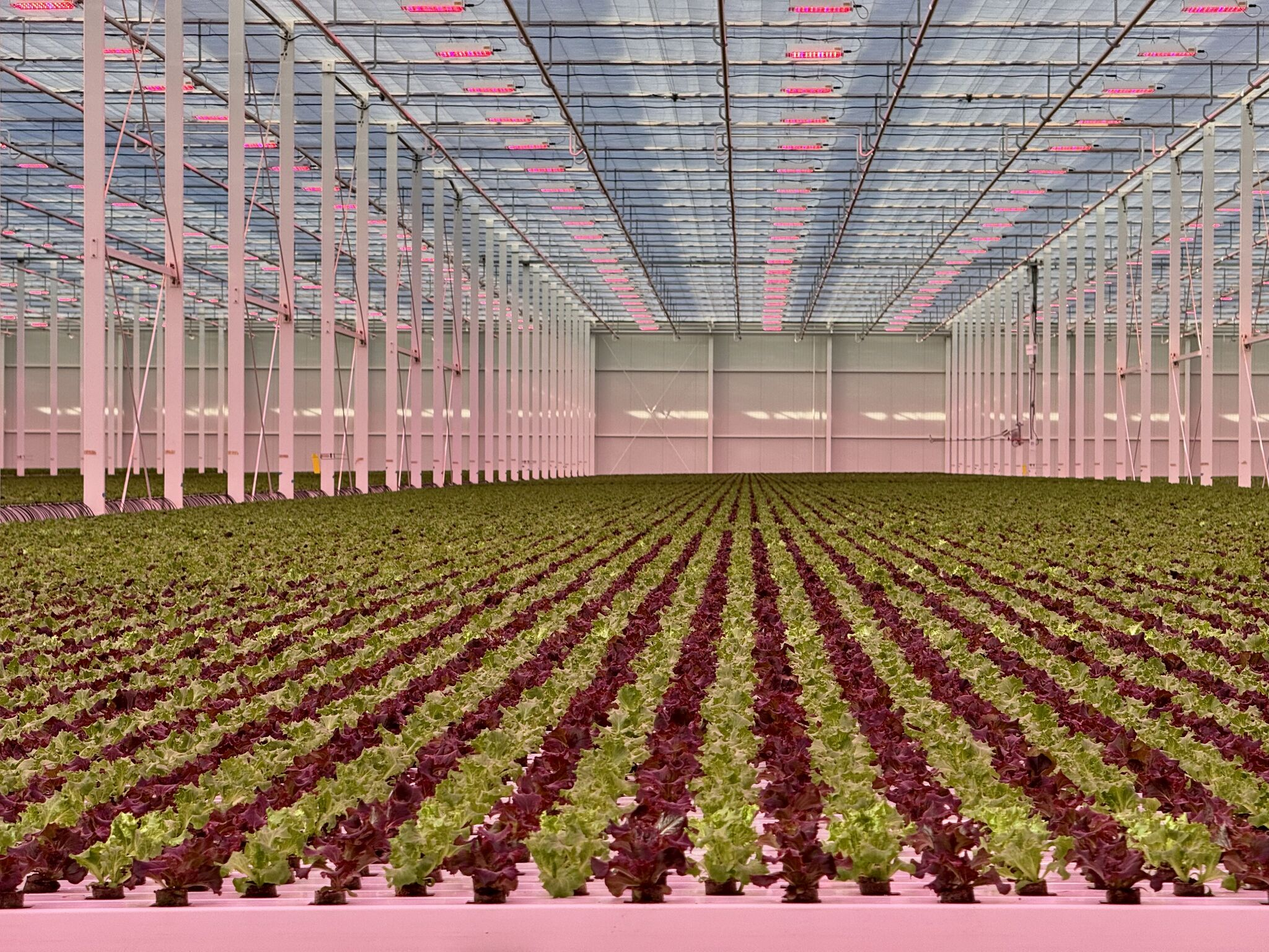
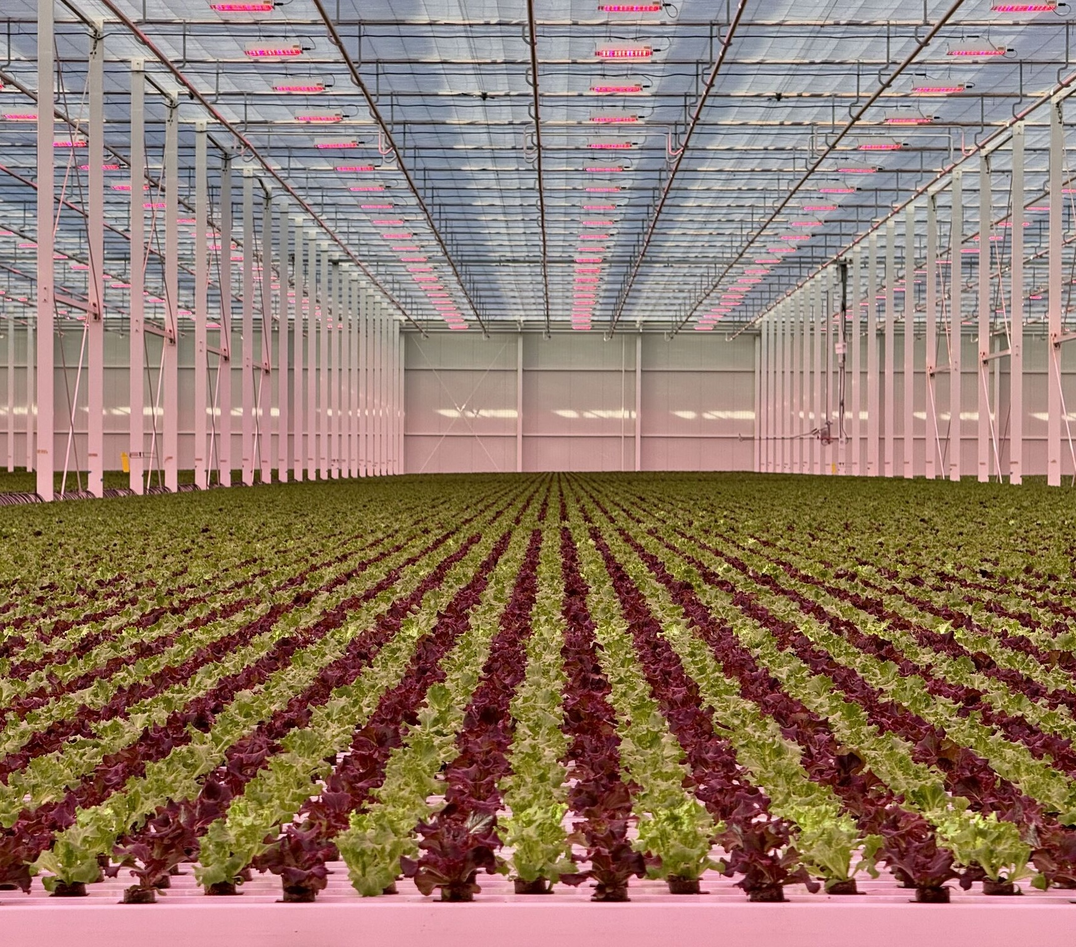
更新hero溫室照(新裁切版)置中、LINE改可點按鈕、移除單一QR區

diff --git a/index.html b/index.html
@@ -52,7 +52,7 @@
     padding:0 0 11vh;overflow:hidden;
   }
   .hero__bg{position:absolute;inset:0;z-index:0}
-  .hero__bg img{width:100%;height:100%;object-fit:cover;object-position:42% center;
+  .hero__bg img{width:100%;height:100%;object-fit:cover;object-position:center;
     opacity:.96;filter:brightness(1.12) saturate(.95)}
   .hero__bg::after{
     content:"";position:absolute;inset:0;
@@ -421,6 +421,8 @@
     </div>
 
     <div class="socials">
+      <a class="sbtn reveal" href="https://line.me/ti/p/ZOqlzwtyOY" target="_blank" rel="noopener">
+        <svg viewBox="0 0 24 24" fill="none" stroke="var(--gold-light)" stroke-width="1.7" stroke-linejoin="round"><path d="M21 11.4c0-4.2-4-7.6-9-7.6S3 7.2 3 11.4c0 3.8 3.2 7 7.5 7.6.3.1.7.2.8.5.1.2.1.6 0 .8l-.1.8c0 .2-.2 1 .9.6 1.1-.5 5.8-3.4 7.9-5.9h0A7.3 7.3 0 0 0 21 11.4z"/></svg>LINE 加好友</a>
       <a class="sbtn reveal" href="https://www.facebook.com/robjarool" target="_blank" rel="noopener">
         <svg viewBox="0 0 24 24" fill="var(--gold-light)"><path d="M22 12a10 10 0 1 0-11.6 9.9v-7H7.9V12h2.5V9.8c0-2.5 1.5-3.9 3.8-3.9 1.1 0 2.2.2 2.2.2v2.5h-1.2c-1.2 0-1.6.8-1.6 1.6V12h2.7l-.4 2.9h-2.3v7A10 10 0 0 0 22 12z"/></svg>個人臉書</a>
       <a class="sbtn reveal" href="https://www.facebook.com/robert.ap.farm/" target="_blank" rel="noopener">
@@ -433,13 +435,6 @@
         <svg viewBox="0 0 24 24" fill="none" stroke="var(--gold-light)" stroke-width="1.7"><rect x="3" y="3" width="18" height="18" rx="5.2"/><circle cx="12" cy="12" r="4"/><circle cx="17.4" cy="6.6" r="1.1" fill="var(--gold-light)" stroke="none"/></svg>IG・農場</a>
     </div>
 
-    <div class="qr-head reveal">
-      <span class="eyebrow">加我 LINE</span>
-      <p>用手機相機或 LINE 對準下方 QR Code 即可</p>
-    </div>
-    <div class="qr-single reveal">
-      <div class="qr"><img src="assets/qr-line.png" alt="羅伯特 LINE QR Code"><div class="cap">LINE<small>加我好友</small></div></div>
-    </div>
   </div>
 </section>
 
